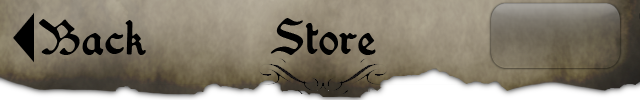
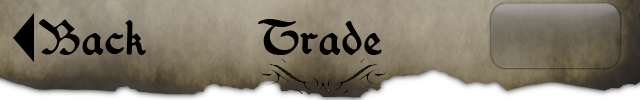
reworked look and feel. more work on store view.

Changed region(s): [[0.4062, 0.18, 0.5938, 0.57]]

diff --git a/Classes/Views/Inventory/StoreViewController.h b/Classes/Views/Inventory/StoreViewController.h
@@ -14,9 +14,18 @@
 //-----------------------------------------------------------------------------------------------------------------------------------
 @class AccountModel;
 
+//-----------------------------------------------------------------------------------------------------------------------------------
+typedef enum storeMode {
+    StoreModeSell,
+    StoreModeBuy,
+} StoreModeType;
+
 /////////////////////////////////////////////////////////////////////////////////////////////////////////////////////////////////////
 @interface StoreViewController : UIViewController <UITableViewDelegate, UITableViewDataSource, NavigationLauncherViewDelegate, LauncherViewDelegate> {
     IBOutlet UITableView* itemsView;
+    UIImage* sellImage;
+    UIImage* buyImage;
+    StoreModeType storeMode;
     UIView* containerView;
     NSMutableArray* items;
     AccountModel* account;
@@ -25,6 +34,9 @@
 //-----------------------------------------------------------------------------------------------------------------------------------
 @property (nonatomic, retain) UITableView* itemsView;
 @property (nonatomic, retain) UIView* containerView;
+@property (nonatomic, retain) UIImage* sellImage;
+@property (nonatomic, retain) UIImage* buyImage;
+@property (nonatomic, assign) StoreModeType storeMode;
 @property (nonatomic, retain) NSMutableArray* items;
 @property (nonatomic, retain) AccountModel* account;
 

diff --git a/Classes/Views/Inventory/StoreViewController.m b/Classes/Views/Inventory/StoreViewController.m
@@ -32,6 +32,9 @@
 //-----------------------------------------------------------------------------------------------------------------------------------
 @synthesize itemsView;
 @synthesize containerView;
+@synthesize sellImage;
+@synthesize buyImage;
+@synthesize storeMode;
 @synthesize items;
 @synthesize account;
 
@@ -48,6 +51,9 @@
     if ((self = [super initWithNibName:nibNameOrNil bundle:nibBundleOrNil])) {
         self.containerView = _containerView;
         self.view.frame = self.containerView.frame;
+        self.sellImage = [UIImage imageNamed:@"store-sell-button"];
+        self.buyImage = [UIImage imageNamed:@"store-buy-button"];
+        self.storeMode = StoreModeBuy;
     }
     return self;
 }
@@ -86,6 +92,9 @@
         [self.view removeFromSuperview];
         [[ViewControllerManager instance] showInventoryView:self.containerView];
     } else if ([_name isEqualToString:@"mode"]) {
+        if (self.storeMode == StoreModeBuy) {
+        } else {
+        }
     }
 }
 

diff --git a/Classes/Views/Inventory/StoreTopLauncherView.h b/Classes/Views/Inventory/StoreTopLauncherView.h
@@ -17,11 +17,13 @@
 @interface StoreTopLauncherView : LauncherView {
     TouchAreaView* backLauncher;
     TouchAreaView* modeLauncher;
+    UIImageView* modeView;
 }
 
 //-----------------------------------------------------------------------------------------------------------------------------------
 @property (nonatomic, retain) TouchAreaView* backLauncher;
 @property (nonatomic, retain) TouchAreaView* modeLauncher;
+@property (nonatomic, retain) UIImageView* modeView;
 
 //-----------------------------------------------------------------------------------------------------------------------------------
 + (id)inView:(UIView*)_view andDelegate:(id<LauncherViewDelegate>)_delegate;

diff --git a/Classes/Views/Inventory/InventoryTopLauncherView.m b/Classes/Views/Inventory/InventoryTopLauncherView.m
@@ -44,7 +44,7 @@
         CGRect backFrame = CGRectMake(0.0234*viewWidth, 0.0, 0.2109*viewWidth, viewHeight);
         self.backLauncher = [TouchAreaView createWithFrame:backFrame name:@"back" andDelegate:self];
         [self addSubview:self.backLauncher];
-        CGRect storeFrame = CGRectMake(0.7812*viewWidth, 0.0, 0.2031*viewWidth, viewHeight);
+        CGRect storeFrame = CGRectMake(0.7891*viewWidth, 0.0, 0.2078*viewWidth, viewHeight);
         self.storeLauncher = [TouchAreaView createWithFrame:storeFrame name:@"store" andDelegate:self];
         [self addSubview:self.storeLauncher];
         [_view addSubview:self];

diff --git a/Classes/Views/Inventory/StoreTopLauncherView.m b/Classes/Views/Inventory/StoreTopLauncherView.m
@@ -21,6 +21,7 @@
 //-----------------------------------------------------------------------------------------------------------------------------------
 @synthesize backLauncher;
 @synthesize modeLauncher;
+@synthesize modeView;
 
 //===================================================================================================================================
 #pragma mark StoreTopLauncherView PrivateAPI
